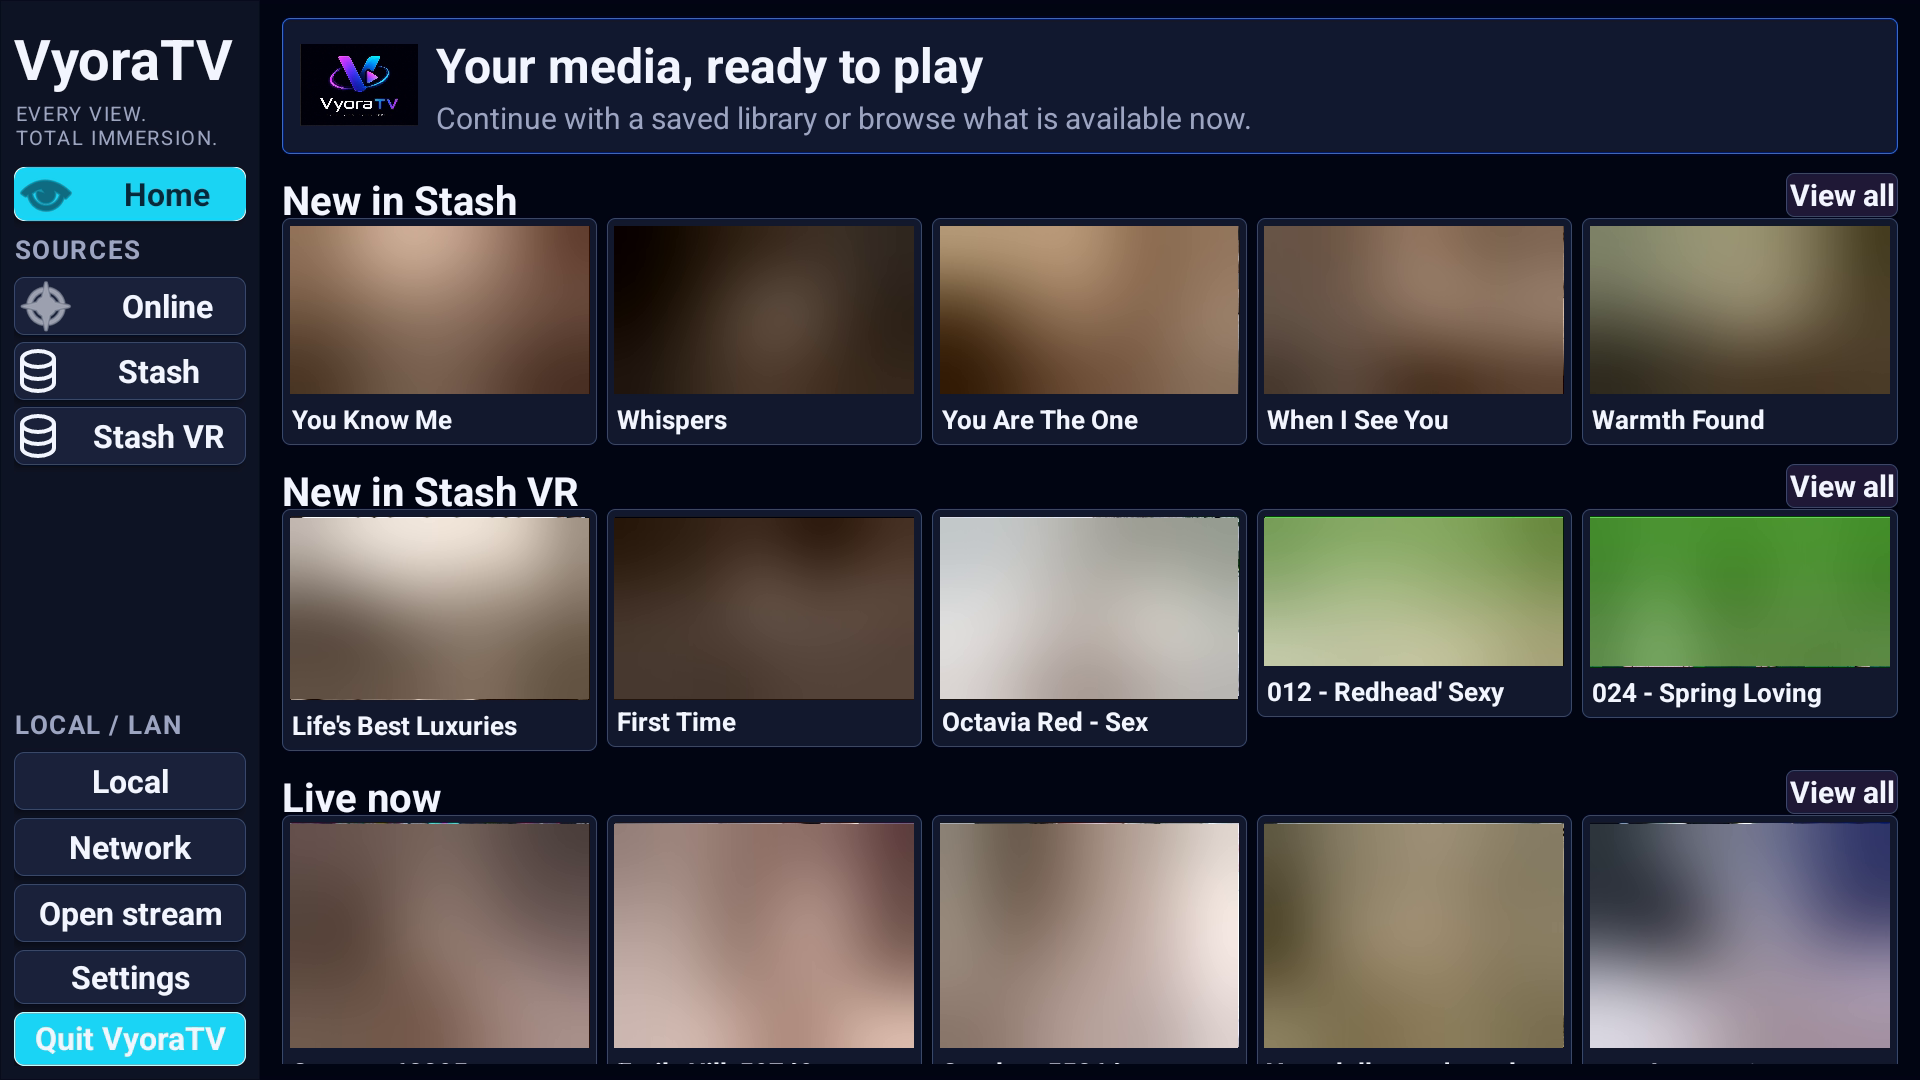
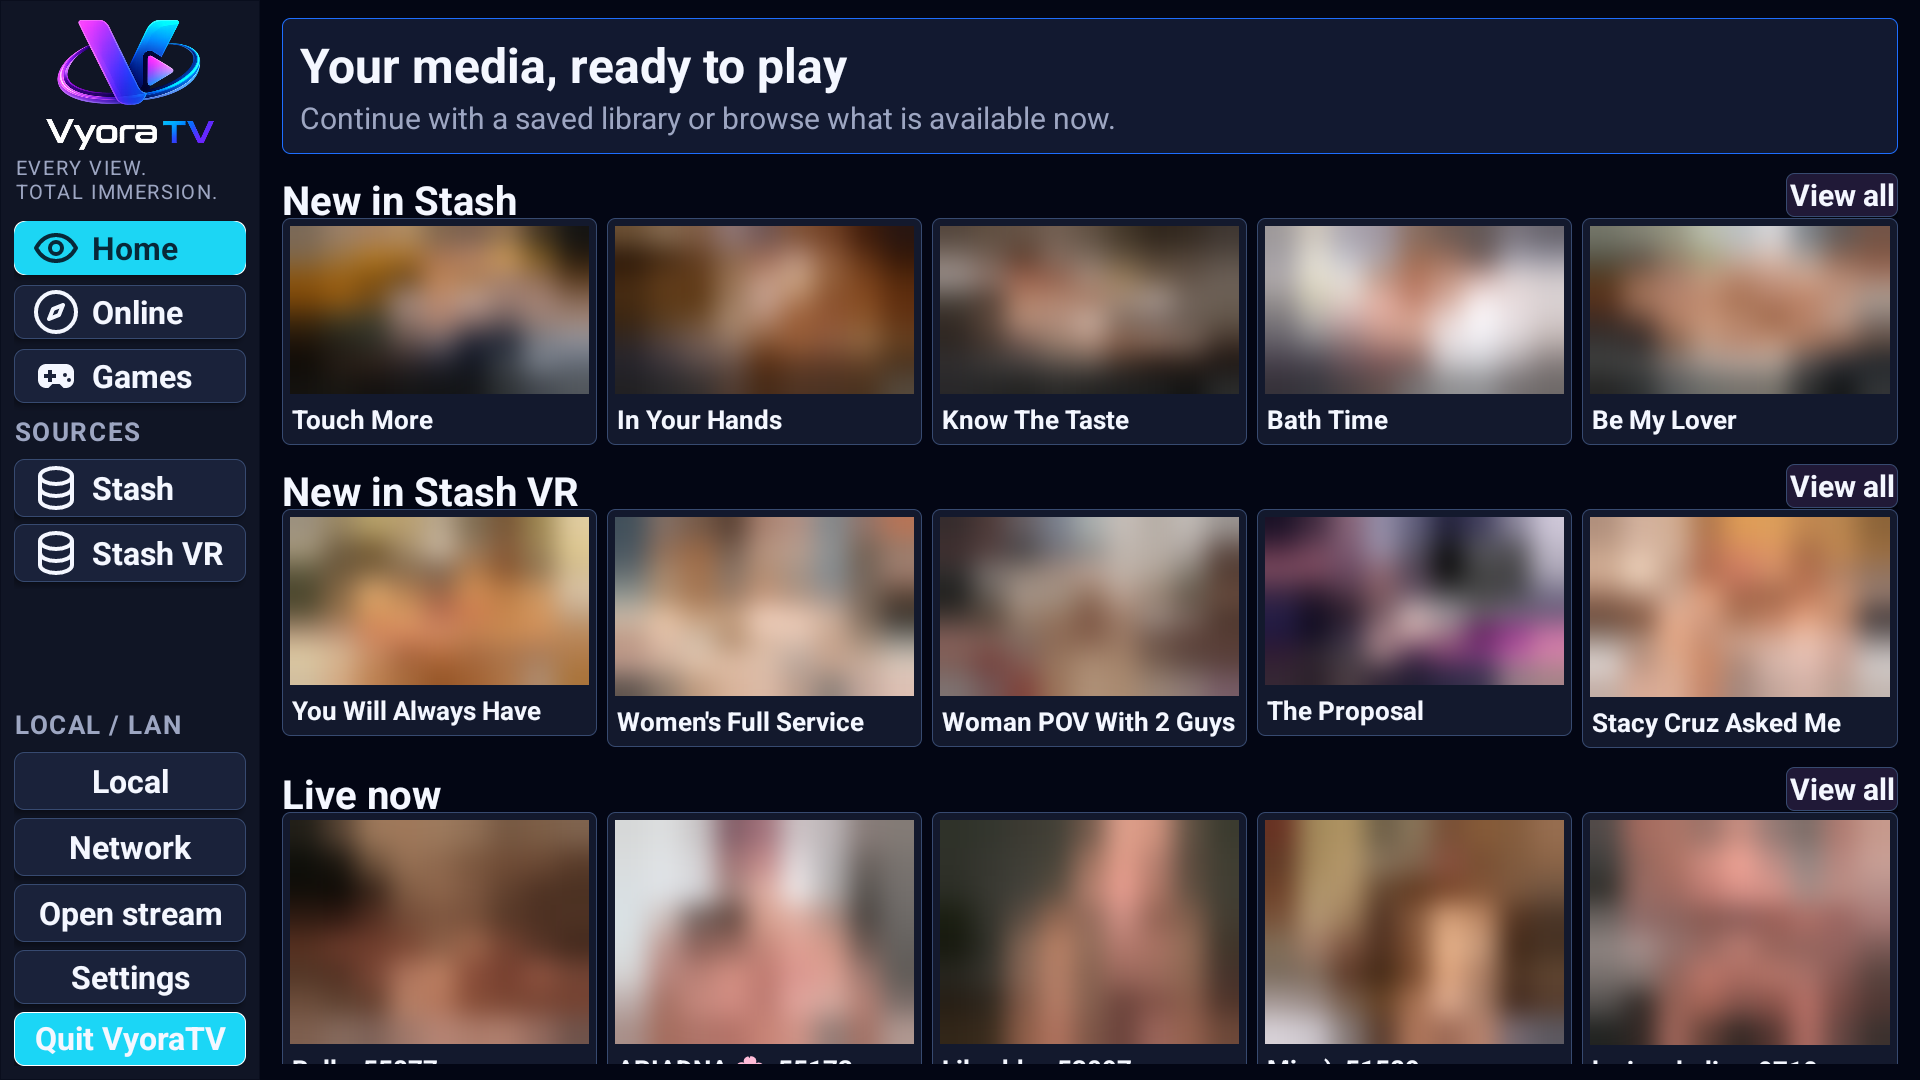
Publish alpha17 games and refresh documentation

diff --git a/README.md b/README.md
@@ -1,5 +1,5 @@
 <p align="center">
-  <img src="assets/vyoraxr-home-logo.png" alt="VyoraXR - Every View. Total Immersion." width="760">
+  <img src="assets/vyora-xr-tv-logo.png" alt="Vyora XR/TV - Every View. Total Immersion." width="760">
 </p>
 
 <p align="center">
@@ -20,12 +20,12 @@ Both editions browse personal libraries, compatible websites and local/network m
 
 ## Android TV
 
-VyoraTV is the focused 2D edition for Android TV devices and emulators. It keeps the same source integrations while using a remote-friendly three-panel layout with visible D-pad focus, grid navigation, Back handling and TV playback controls.
+VyoraTV is the focused 2D edition for Android TV devices and emulators. Its modern two-panel library provides dedicated Home, Online and Games views with visible D-pad focus, grid navigation, Back handling and TV playback controls.
 
 <p>
   <a href="assets/android-tv/vyoratv-home.png"><img src="assets/android-tv/vyoratv-home.png" alt="VyoraTV home screen" width="31%"></a>
-  <a href="assets/android-tv/vyoratv-scenes-blurred.png"><img src="assets/android-tv/vyoratv-scenes-blurred.png" alt="VyoraTV scenes" width="31%"></a>
-  <a href="assets/android-tv/vyoratv-studios.png"><img src="assets/android-tv/vyoratv-studios.png" alt="VyoraTV Stash studios" width="31%"></a>
+  <a href="assets/android-tv/vyoratv-games.png"><img src="assets/android-tv/vyoratv-games.png" alt="VyoraTV games hub" width="31%"></a>
+  <a href="assets/android-tv/vyoratv-scenes-blurred.png"><img src="assets/android-tv/vyoratv-scenes-blurred.png" alt="VyoraTV scenes with private media blurred" width="31%"></a>
 </p>
 
 ## Highlights
@@ -38,6 +38,7 @@ VyoraTV is the focused 2D edition for Android TV devices and emulators. It keeps
 - Eporner, RedTube and ImageFap sources
 - Local files, direct streams, SMB and LAN media
 - Pagination, source-specific search and cached thumbnails
+- VyoraTV Games hub with an offline, multilingual Truth or Dare party game
 - Windowed playback and immersive VR playback with Void and room environments
 - Controller navigation, gallery photo browsing and consistent Back controls
 - Intiface Central integration for supported toys and Stash funscripts
@@ -65,6 +66,16 @@ Add a website URL and VyoraXR checks whether it exposes the PLAYA VR API. Compat
 1. Download the latest alpha APK from [Releases](../../releases).
 2. Install the Quest APK on a Meta Quest, or install the TV APK on an Android TV device/emulator.
 3. Launch the app and configure a source in **Settings > Manage Sources**. For Quest developer setup, see the [Meta Quest developer documentation](https://developers.meta.com/horizon/documentation/native/android/mobile-device-setup/).
+
+### Install VyoraTV with Send Files to TV
+
+1. Install **Send Files to TV** on the Android TV device and on the phone or computer used to transfer files.
+2. Download `VyoraTV-<version>-AndroidTV.apk` from the latest GitHub release.
+3. Send the APK to the Android TV device and open it there with a file manager or package installer.
+4. If Android asks, allow **Install unknown apps** for the receiving or file-manager app.
+5. Install the APK and launch VyoraTV from the Android TV Apps menu.
+
+Updates can also be checked from **Settings > Check for Update** inside VyoraTV.
 
 Example ADB command:
 

diff --git a/RELEASE_NOTES.md b/RELEASE_NOTES.md
@@ -2,6 +2,17 @@
 
 This document combines the public alpha release notes. VyoraXR and VyoraTV are alpha software; features and compatibility may change between releases.
 
+## 0.1.0-alpha17
+
+- Added a dedicated Games destination to the VyoraTV sidebar between Online and saved sources.
+- Added an offline Truth or Dare party game with 2-8 players and Warm, Spicy and Wild intensity choices.
+- Added English, Dutch, German and French game prompts with per-player intensity selection and repeat protection.
+- Added TV-remote navigation, Back handling and clear high-contrast focus states throughout the game flow.
+- Improved game-card sizing, prompt readability, spacing and transparent artwork presentation.
+- Refined Start, Next player and Quit focus feedback for better D-pad visibility.
+- Updated public documentation with current privacy-redacted VyoraTV screenshots and Android TV sideload instructions.
+- Replaced the framed VyoraXR README image with transparent Vyora XR/TV branding.
+
 ## 0.1.0-alpha16
 
 - Redesigned VyoraTV around a modern two-panel library with dedicated Home and Online views.
@@ -107,7 +118,7 @@ This alpha contains an experimental change to Quest controller input during VR p
 
 ### Notes
 
-- Stripchat uses its public models endpoint with the configured affiliate user ID.
+- Stripchat uses its public models endpoint with the configured source settings.
 - The public endpoint reports VR capability but does not provide a separate SBS stream; VR is therefore not shown as a supported Stripchat mode in this release.
 - Existing Stash, PLAYA VR, Chaturbate, Eporner, RedTube, ImageFap and local playback features remain available.
 
